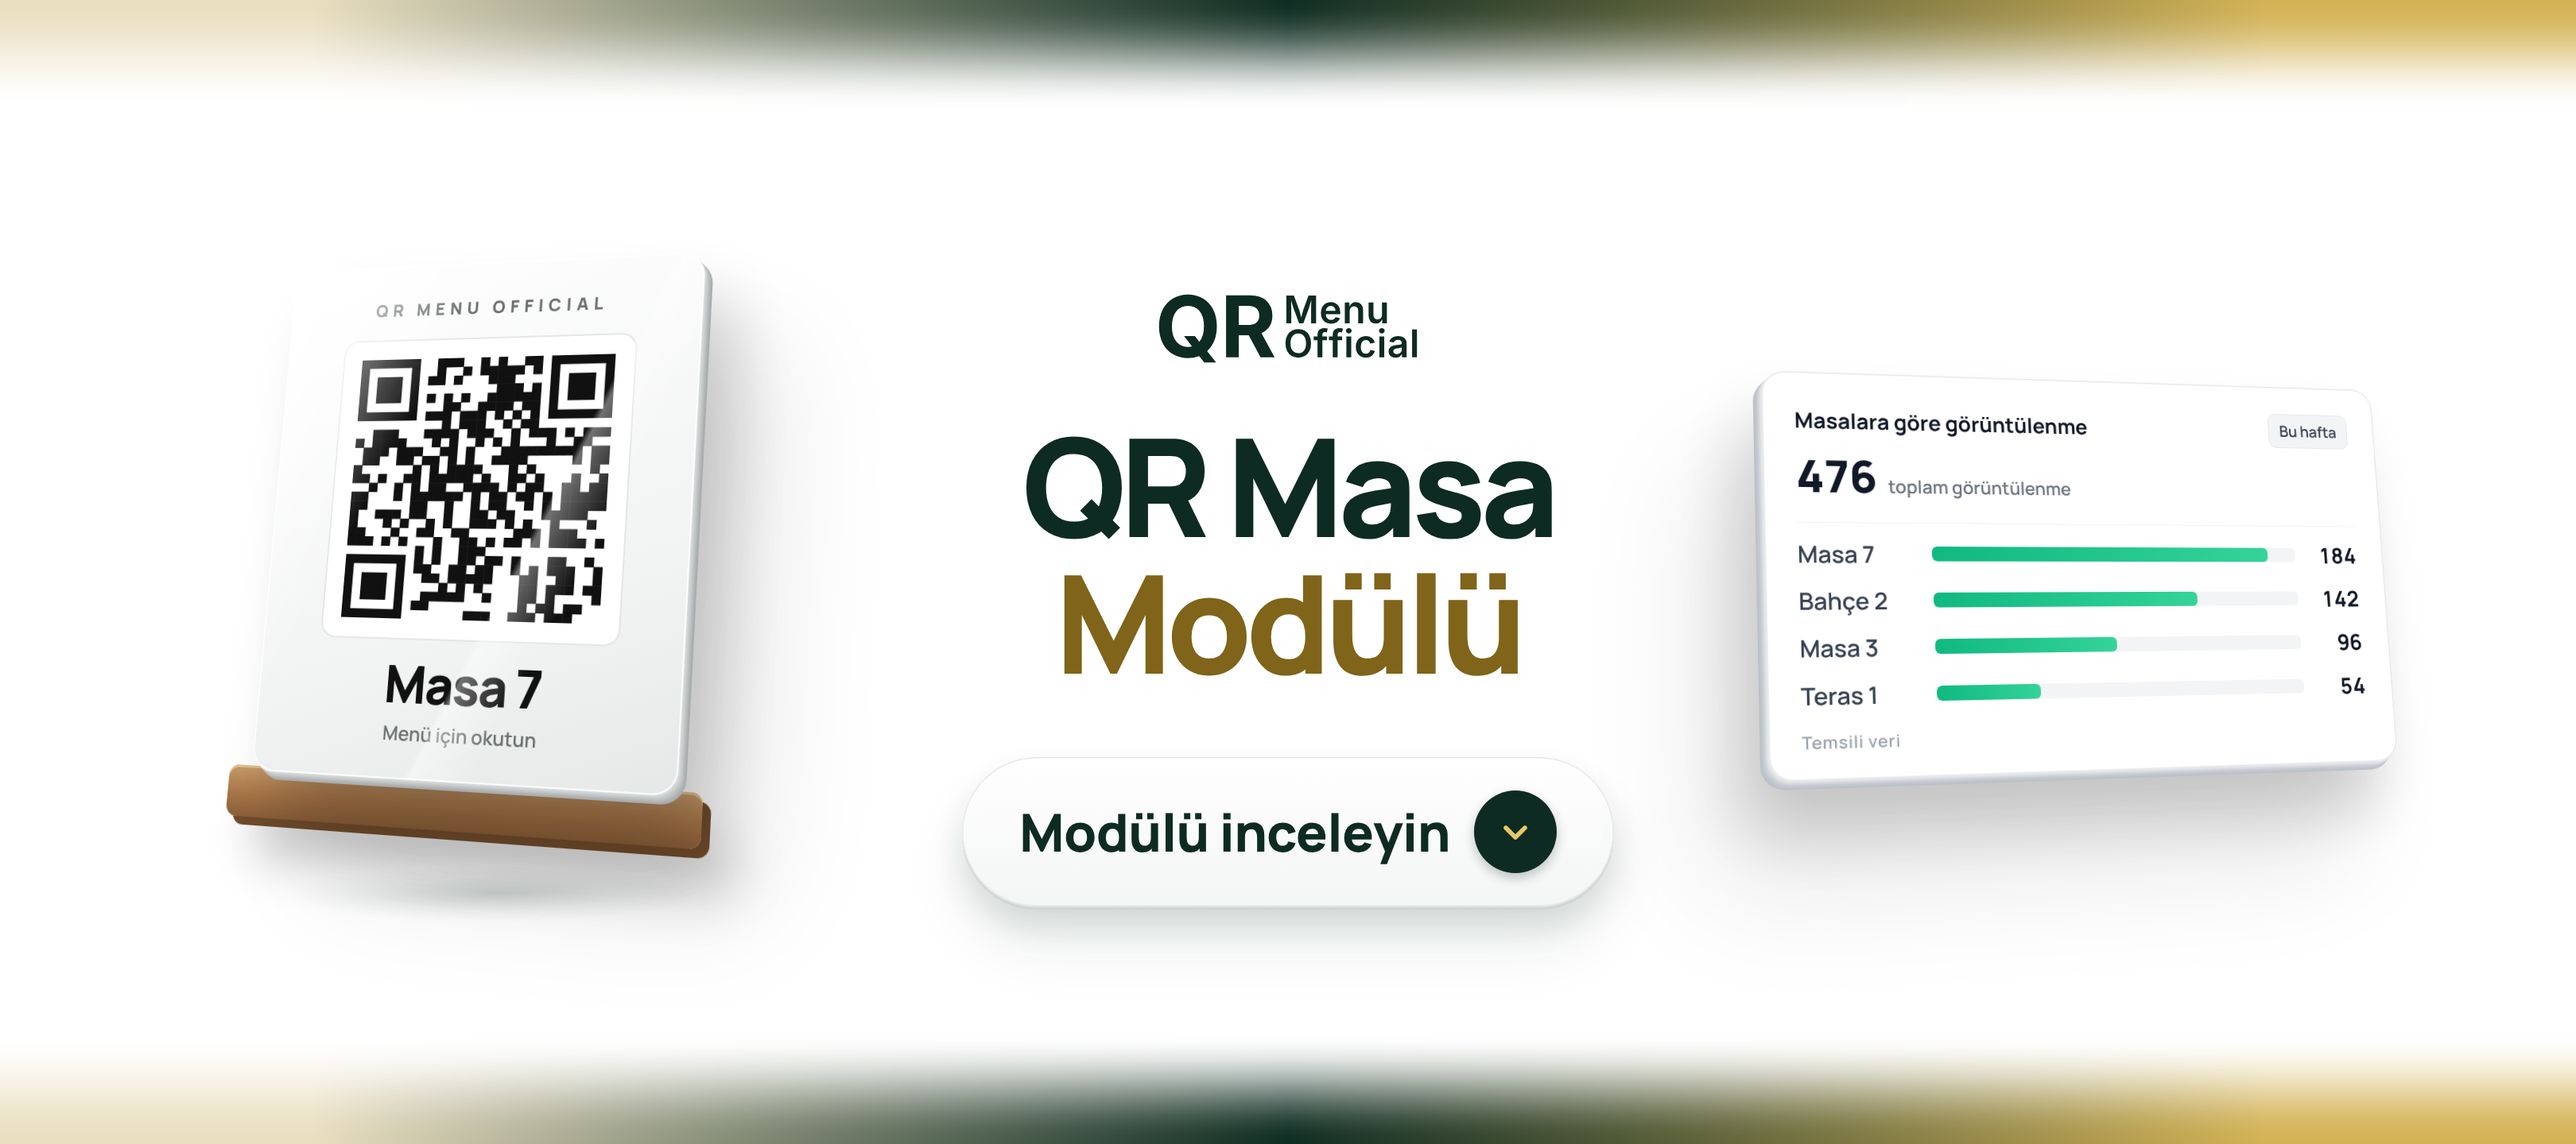
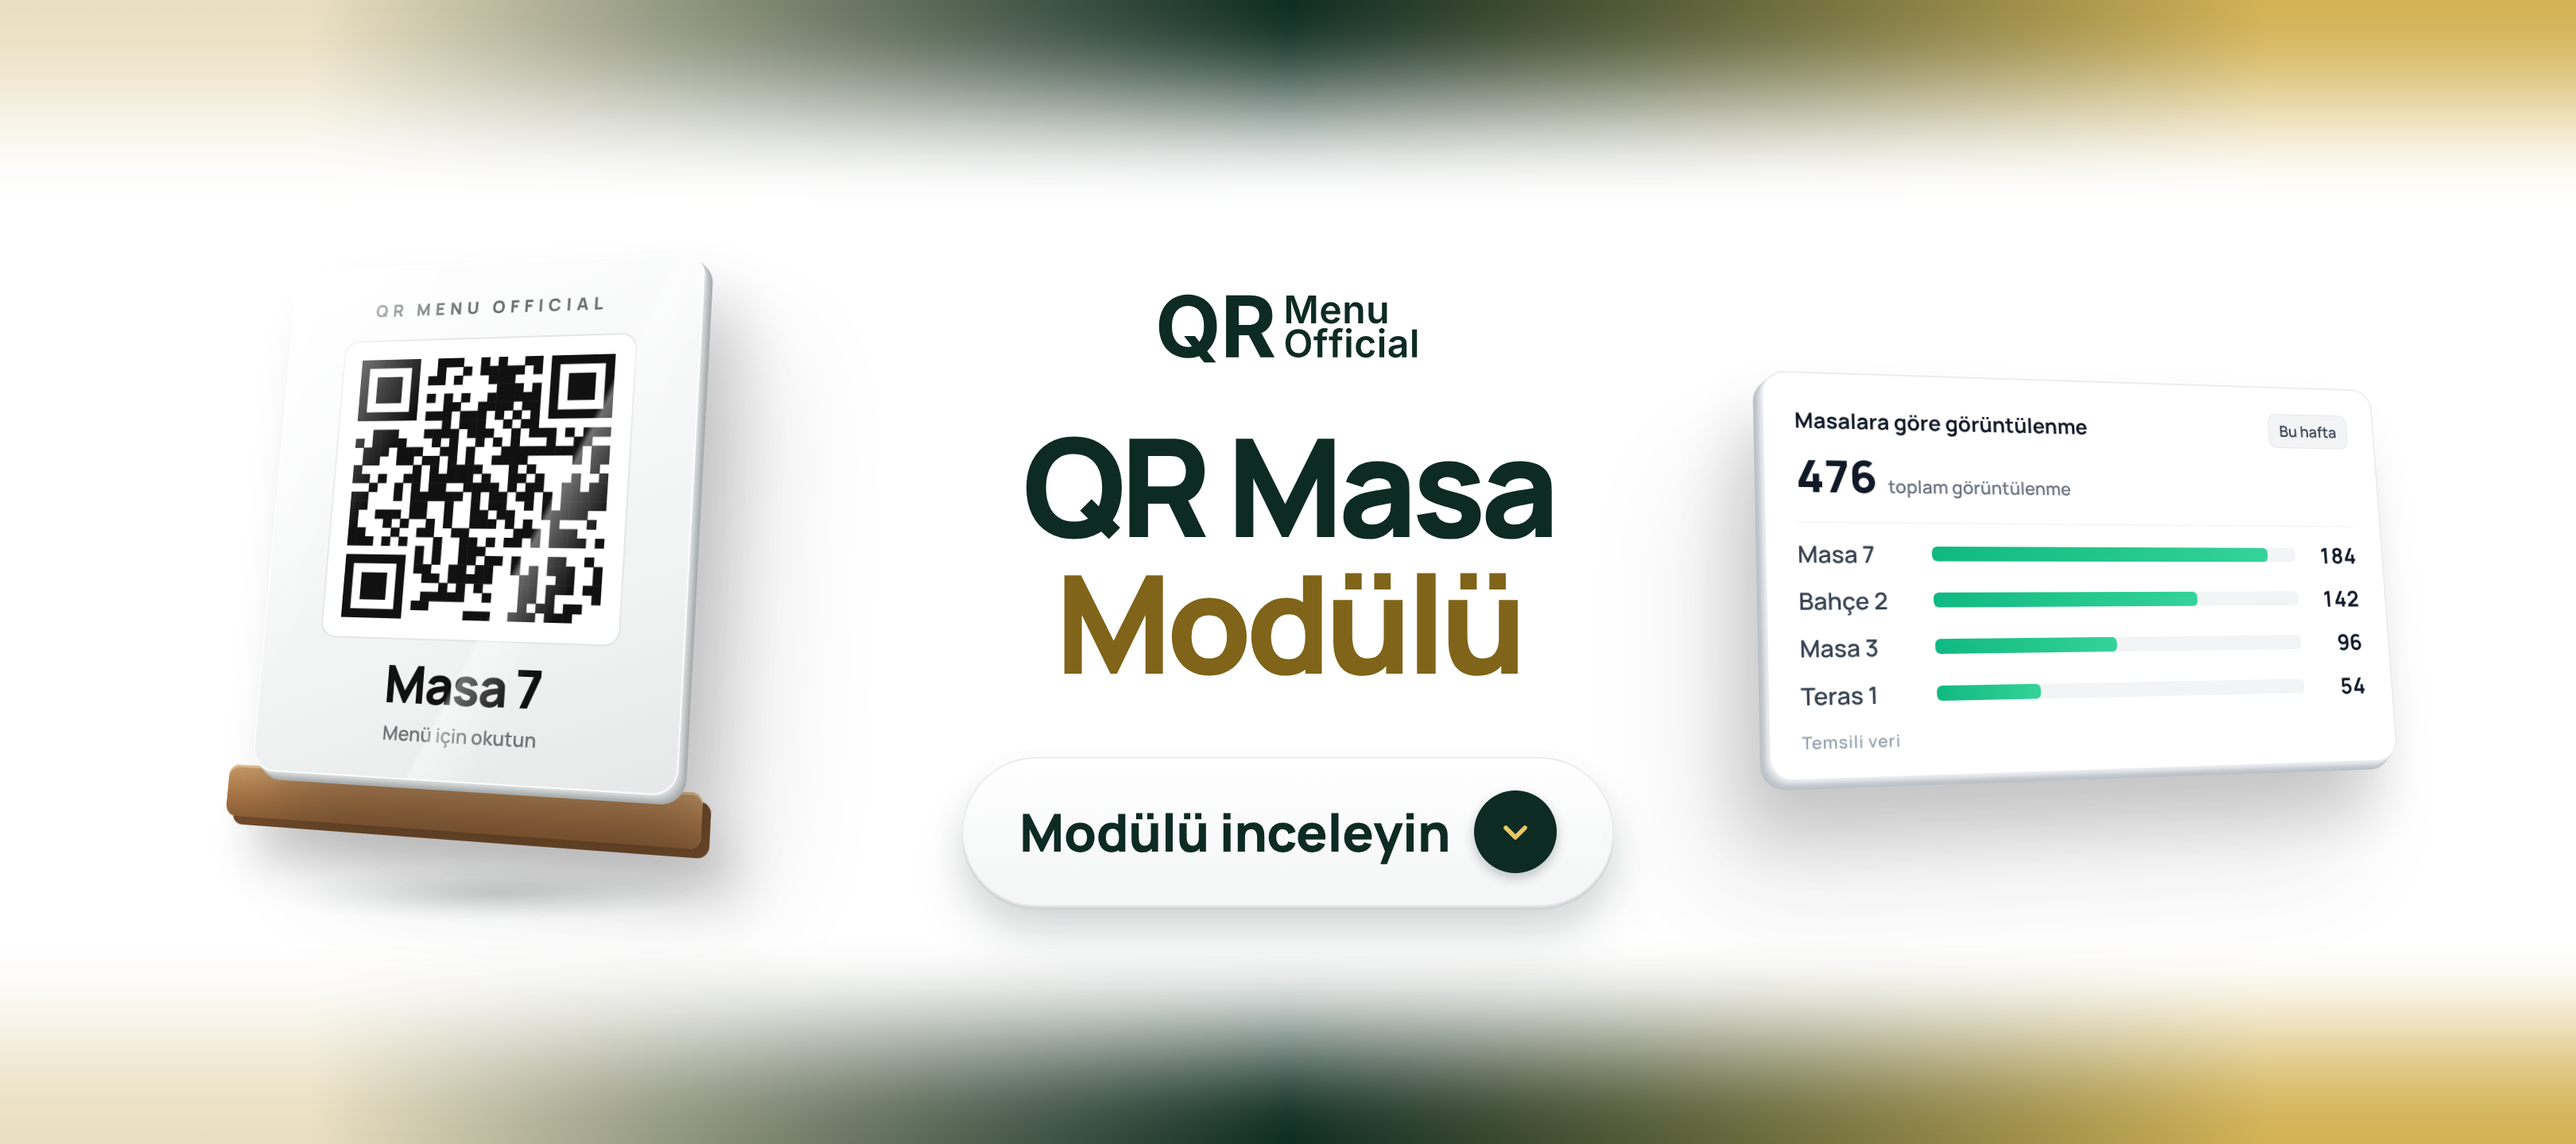
QR Masa split v3: üst/alt geçiş yüksekliği referans oranında (140/768)
Claude-Session: https://claude.ai/code/session_01FBw9rVwrniVjyFvtgVdFXq

Changed region(s): [[0.0, 0.8438, 1.0, 1.0], [0.0, 0.0, 1.0, 0.1562]]

diff --git a/tools/ig-split/qr-masa-b2.html b/tools/ig-split/qr-masa-b2.html
@@ -51,7 +51,7 @@ box-shadow:inset 0 0 0 1.5px #E6E8E8,0 1px 0 #ffffff inset,0 2px 0 #d9dcdc,0 4px
 .cta.big{margin-top:84px;width:820px;padding:42px 50px;font-size:66px;gap:30px}.cta.big i{width:104px;height:104px}.cta.big i svg{width:48px;height:48px}
 .R{padding:0 230px 0 60px!important;display:flex!important;flex-direction:column;justify-content:center}
 .R .pw{margin-top:0!important;transform:scale(1.08) rotateY(18deg) rotateX(10deg)!important}
-</style></head><body><div class="fx3" style="position:absolute;left:0;top:0;width:3240px;height:1440px;pointer-events:none;background:linear-gradient(90deg in oklab,#EADFC1 0%,#EADFC1 12%,#0F2E23 50%,#D4B356 88%,#D4B356 100%);-webkit-mask-image:linear-gradient(180deg,rgba(0,0,0,1.0000) 0.00px,rgba(0,0,0,0.9969) 5.00px,rgba(0,0,0,0.9875) 10.00px,rgba(0,0,0,0.9719) 15.00px,rgba(0,0,0,0.9505) 20.00px,rgba(0,0,0,0.9234) 25.00px,rgba(0,0,0,0.8909) 30.00px,rgba(0,0,0,0.8536) 35.00px,rgba(0,0,0,0.8117) 40.00px,rgba(0,0,0,0.7660) 45.00px,rgba(0,0,0,0.7169) 50.00px,rgba(0,0,0,0.6651) 55.00px,rgba(0,0,0,0.6113) 60.00px,rgba(0,0,0,0.5560) 65.00px,rgba(0,0,0,0.5000) 70.00px,rgba(0,0,0,0.4440) 75.00px,rgba(0,0,0,0.3887) 80.00px,rgba(0,0,0,0.3349) 85.00px,rgba(0,0,0,0.2831) 90.00px,rgba(0,0,0,0.2340) 95.00px,rgba(0,0,0,0.1883) 100.00px,rgba(0,0,0,0.1464) 105.00px,rgba(0,0,0,0.1091) 110.00px,rgba(0,0,0,0.0766) 115.00px,rgba(0,0,0,0.0495) 120.00px,rgba(0,0,0,0.0281) 125.00px,rgba(0,0,0,0.0125) 130.00px,rgba(0,0,0,0.0031) 135.00px,rgba(0,0,0,0.0000) 140.00px,rgba(0,0,0,0) 140px,rgba(0,0,0,0) 1300px,rgba(0,0,0,0.0000) 1300.00px,rgba(0,0,0,0.0031) 1305.00px,rgba(0,0,0,0.0125) 1310.00px,rgba(0,0,0,0.0281) 1315.00px,rgba(0,0,0,0.0495) 1320.00px,rgba(0,0,0,0.0766) 1325.00px,rgba(0,0,0,0.1091) 1330.00px,rgba(0,0,0,0.1464) 1335.00px,rgba(0,0,0,0.1883) 1340.00px,rgba(0,0,0,0.2340) 1345.00px,rgba(0,0,0,0.2831) 1350.00px,rgba(0,0,0,0.3349) 1355.00px,rgba(0,0,0,0.3887) 1360.00px,rgba(0,0,0,0.4440) 1365.00px,rgba(0,0,0,0.5000) 1370.00px,rgba(0,0,0,0.5560) 1375.00px,rgba(0,0,0,0.6113) 1380.00px,rgba(0,0,0,0.6651) 1385.00px,rgba(0,0,0,0.7169) 1390.00px,rgba(0,0,0,0.7660) 1395.00px,rgba(0,0,0,0.8117) 1400.00px,rgba(0,0,0,0.8536) 1405.00px,rgba(0,0,0,0.8909) 1410.00px,rgba(0,0,0,0.9234) 1415.00px,rgba(0,0,0,0.9505) 1420.00px,rgba(0,0,0,0.9719) 1425.00px,rgba(0,0,0,0.9875) 1430.00px,rgba(0,0,0,0.9969) 1435.00px,rgba(0,0,0,1.0000) 1440.00px);mask-image:linear-gradient(180deg,rgba(0,0,0,1.0000) 0.00px,rgba(0,0,0,0.9969) 5.00px,rgba(0,0,0,0.9875) 10.00px,rgba(0,0,0,0.9719) 15.00px,rgba(0,0,0,0.9505) 20.00px,rgba(0,0,0,0.9234) 25.00px,rgba(0,0,0,0.8909) 30.00px,rgba(0,0,0,0.8536) 35.00px,rgba(0,0,0,0.8117) 40.00px,rgba(0,0,0,0.7660) 45.00px,rgba(0,0,0,0.7169) 50.00px,rgba(0,0,0,0.6651) 55.00px,rgba(0,0,0,0.6113) 60.00px,rgba(0,0,0,0.5560) 65.00px,rgba(0,0,0,0.5000) 70.00px,rgba(0,0,0,0.4440) 75.00px,rgba(0,0,0,0.3887) 80.00px,rgba(0,0,0,0.3349) 85.00px,rgba(0,0,0,0.2831) 90.00px,rgba(0,0,0,0.2340) 95.00px,rgba(0,0,0,0.1883) 100.00px,rgba(0,0,0,0.1464) 105.00px,rgba(0,0,0,0.1091) 110.00px,rgba(0,0,0,0.0766) 115.00px,rgba(0,0,0,0.0495) 120.00px,rgba(0,0,0,0.0281) 125.00px,rgba(0,0,0,0.0125) 130.00px,rgba(0,0,0,0.0031) 135.00px,rgba(0,0,0,0.0000) 140.00px,rgba(0,0,0,0) 140px,rgba(0,0,0,0) 1300px,rgba(0,0,0,0.0000) 1300.00px,rgba(0,0,0,0.0031) 1305.00px,rgba(0,0,0,0.0125) 1310.00px,rgba(0,0,0,0.0281) 1315.00px,rgba(0,0,0,0.0495) 1320.00px,rgba(0,0,0,0.0766) 1325.00px,rgba(0,0,0,0.1091) 1330.00px,rgba(0,0,0,0.1464) 1335.00px,rgba(0,0,0,0.1883) 1340.00px,rgba(0,0,0,0.2340) 1345.00px,rgba(0,0,0,0.2831) 1350.00px,rgba(0,0,0,0.3349) 1355.00px,rgba(0,0,0,0.3887) 1360.00px,rgba(0,0,0,0.4440) 1365.00px,rgba(0,0,0,0.5000) 1370.00px,rgba(0,0,0,0.5560) 1375.00px,rgba(0,0,0,0.6113) 1380.00px,rgba(0,0,0,0.6651) 1385.00px,rgba(0,0,0,0.7169) 1390.00px,rgba(0,0,0,0.7660) 1395.00px,rgba(0,0,0,0.8117) 1400.00px,rgba(0,0,0,0.8536) 1405.00px,rgba(0,0,0,0.8909) 1410.00px,rgba(0,0,0,0.9234) 1415.00px,rgba(0,0,0,0.9505) 1420.00px,rgba(0,0,0,0.9719) 1425.00px,rgba(0,0,0,0.9875) 1430.00px,rgba(0,0,0,0.9969) 1435.00px,rgba(0,0,0,1.0000) 1440.00px)"></div>
+</style></head><body><div class="fx3" style="position:absolute;left:0;top:0;width:3240px;height:1440px;pointer-events:none;background:linear-gradient(90deg in oklab,#EADFC1 0%,#EADFC1 12%,#0F2E23 50%,#D4B356 88%,#D4B356 100%);-webkit-mask-image:linear-gradient(180deg,rgba(0,0,0,1.0000) 0.00px,rgba(0,0,0,0.9985) 6.56px,rgba(0,0,0,0.9938) 13.12px,rgba(0,0,0,0.9862) 19.69px,rgba(0,0,0,0.9755) 26.25px,rgba(0,0,0,0.9619) 32.81px,rgba(0,0,0,0.9455) 39.38px,rgba(0,0,0,0.9263) 45.94px,rgba(0,0,0,0.9045) 52.50px,rgba(0,0,0,0.8802) 59.06px,rgba(0,0,0,0.8536) 65.62px,rgba(0,0,0,0.8247) 72.19px,rgba(0,0,0,0.7939) 78.75px,rgba(0,0,0,0.7612) 85.31px,rgba(0,0,0,0.7270) 91.88px,rgba(0,0,0,0.6913) 98.44px,rgba(0,0,0,0.6545) 105.00px,rgba(0,0,0,0.6167) 111.56px,rgba(0,0,0,0.5782) 118.12px,rgba(0,0,0,0.5392) 124.69px,rgba(0,0,0,0.5000) 131.25px,rgba(0,0,0,0.4608) 137.81px,rgba(0,0,0,0.4218) 144.38px,rgba(0,0,0,0.3833) 150.94px,rgba(0,0,0,0.3455) 157.50px,rgba(0,0,0,0.3087) 164.06px,rgba(0,0,0,0.2730) 170.62px,rgba(0,0,0,0.2388) 177.19px,rgba(0,0,0,0.2061) 183.75px,rgba(0,0,0,0.1753) 190.31px,rgba(0,0,0,0.1464) 196.88px,rgba(0,0,0,0.1198) 203.44px,rgba(0,0,0,0.0955) 210.00px,rgba(0,0,0,0.0737) 216.56px,rgba(0,0,0,0.0545) 223.12px,rgba(0,0,0,0.0381) 229.69px,rgba(0,0,0,0.0245) 236.25px,rgba(0,0,0,0.0138) 242.81px,rgba(0,0,0,0.0062) 249.38px,rgba(0,0,0,0.0015) 255.94px,rgba(0,0,0,0.0000) 262.50px,rgba(0,0,0,0.0000) 1177.50px,rgba(0,0,0,0.0015) 1184.06px,rgba(0,0,0,0.0062) 1190.62px,rgba(0,0,0,0.0138) 1197.19px,rgba(0,0,0,0.0245) 1203.75px,rgba(0,0,0,0.0381) 1210.31px,rgba(0,0,0,0.0545) 1216.88px,rgba(0,0,0,0.0737) 1223.44px,rgba(0,0,0,0.0955) 1230.00px,rgba(0,0,0,0.1198) 1236.56px,rgba(0,0,0,0.1464) 1243.12px,rgba(0,0,0,0.1753) 1249.69px,rgba(0,0,0,0.2061) 1256.25px,rgba(0,0,0,0.2388) 1262.81px,rgba(0,0,0,0.2730) 1269.38px,rgba(0,0,0,0.3087) 1275.94px,rgba(0,0,0,0.3455) 1282.50px,rgba(0,0,0,0.3833) 1289.06px,rgba(0,0,0,0.4218) 1295.62px,rgba(0,0,0,0.4608) 1302.19px,rgba(0,0,0,0.5000) 1308.75px,rgba(0,0,0,0.5392) 1315.31px,rgba(0,0,0,0.5782) 1321.88px,rgba(0,0,0,0.6167) 1328.44px,rgba(0,0,0,0.6545) 1335.00px,rgba(0,0,0,0.6913) 1341.56px,rgba(0,0,0,0.7270) 1348.12px,rgba(0,0,0,0.7612) 1354.69px,rgba(0,0,0,0.7939) 1361.25px,rgba(0,0,0,0.8247) 1367.81px,rgba(0,0,0,0.8536) 1374.38px,rgba(0,0,0,0.8802) 1380.94px,rgba(0,0,0,0.9045) 1387.50px,rgba(0,0,0,0.9263) 1394.06px,rgba(0,0,0,0.9455) 1400.62px,rgba(0,0,0,0.9619) 1407.19px,rgba(0,0,0,0.9755) 1413.75px,rgba(0,0,0,0.9862) 1420.31px,rgba(0,0,0,0.9938) 1426.88px,rgba(0,0,0,0.9985) 1433.44px,rgba(0,0,0,1.0000) 1440.00px);mask-image:linear-gradient(180deg,rgba(0,0,0,1.0000) 0.00px,rgba(0,0,0,0.9985) 6.56px,rgba(0,0,0,0.9938) 13.12px,rgba(0,0,0,0.9862) 19.69px,rgba(0,0,0,0.9755) 26.25px,rgba(0,0,0,0.9619) 32.81px,rgba(0,0,0,0.9455) 39.38px,rgba(0,0,0,0.9263) 45.94px,rgba(0,0,0,0.9045) 52.50px,rgba(0,0,0,0.8802) 59.06px,rgba(0,0,0,0.8536) 65.62px,rgba(0,0,0,0.8247) 72.19px,rgba(0,0,0,0.7939) 78.75px,rgba(0,0,0,0.7612) 85.31px,rgba(0,0,0,0.7270) 91.88px,rgba(0,0,0,0.6913) 98.44px,rgba(0,0,0,0.6545) 105.00px,rgba(0,0,0,0.6167) 111.56px,rgba(0,0,0,0.5782) 118.12px,rgba(0,0,0,0.5392) 124.69px,rgba(0,0,0,0.5000) 131.25px,rgba(0,0,0,0.4608) 137.81px,rgba(0,0,0,0.4218) 144.38px,rgba(0,0,0,0.3833) 150.94px,rgba(0,0,0,0.3455) 157.50px,rgba(0,0,0,0.3087) 164.06px,rgba(0,0,0,0.2730) 170.62px,rgba(0,0,0,0.2388) 177.19px,rgba(0,0,0,0.2061) 183.75px,rgba(0,0,0,0.1753) 190.31px,rgba(0,0,0,0.1464) 196.88px,rgba(0,0,0,0.1198) 203.44px,rgba(0,0,0,0.0955) 210.00px,rgba(0,0,0,0.0737) 216.56px,rgba(0,0,0,0.0545) 223.12px,rgba(0,0,0,0.0381) 229.69px,rgba(0,0,0,0.0245) 236.25px,rgba(0,0,0,0.0138) 242.81px,rgba(0,0,0,0.0062) 249.38px,rgba(0,0,0,0.0015) 255.94px,rgba(0,0,0,0.0000) 262.50px,rgba(0,0,0,0.0000) 1177.50px,rgba(0,0,0,0.0015) 1184.06px,rgba(0,0,0,0.0062) 1190.62px,rgba(0,0,0,0.0138) 1197.19px,rgba(0,0,0,0.0245) 1203.75px,rgba(0,0,0,0.0381) 1210.31px,rgba(0,0,0,0.0545) 1216.88px,rgba(0,0,0,0.0737) 1223.44px,rgba(0,0,0,0.0955) 1230.00px,rgba(0,0,0,0.1198) 1236.56px,rgba(0,0,0,0.1464) 1243.12px,rgba(0,0,0,0.1753) 1249.69px,rgba(0,0,0,0.2061) 1256.25px,rgba(0,0,0,0.2388) 1262.81px,rgba(0,0,0,0.2730) 1269.38px,rgba(0,0,0,0.3087) 1275.94px,rgba(0,0,0,0.3455) 1282.50px,rgba(0,0,0,0.3833) 1289.06px,rgba(0,0,0,0.4218) 1295.62px,rgba(0,0,0,0.4608) 1302.19px,rgba(0,0,0,0.5000) 1308.75px,rgba(0,0,0,0.5392) 1315.31px,rgba(0,0,0,0.5782) 1321.88px,rgba(0,0,0,0.6167) 1328.44px,rgba(0,0,0,0.6545) 1335.00px,rgba(0,0,0,0.6913) 1341.56px,rgba(0,0,0,0.7270) 1348.12px,rgba(0,0,0,0.7612) 1354.69px,rgba(0,0,0,0.7939) 1361.25px,rgba(0,0,0,0.8247) 1367.81px,rgba(0,0,0,0.8536) 1374.38px,rgba(0,0,0,0.8802) 1380.94px,rgba(0,0,0,0.9045) 1387.50px,rgba(0,0,0,0.9263) 1394.06px,rgba(0,0,0,0.9455) 1400.62px,rgba(0,0,0,0.9619) 1407.19px,rgba(0,0,0,0.9755) 1413.75px,rgba(0,0,0,0.9862) 1420.31px,rgba(0,0,0,0.9938) 1426.88px,rgba(0,0,0,0.9985) 1433.44px,rgba(0,0,0,1.0000) 1440.00px)"></div>
 <div class="tile L" style="left:1080px"><div class="Lc">
  <div class="lg2"><svg xmlns="http://www.w3.org/2000/svg" viewBox="0 0 4363.25 1296.64" fill="none" role="img" aria-labelledby="logo-title">
 
